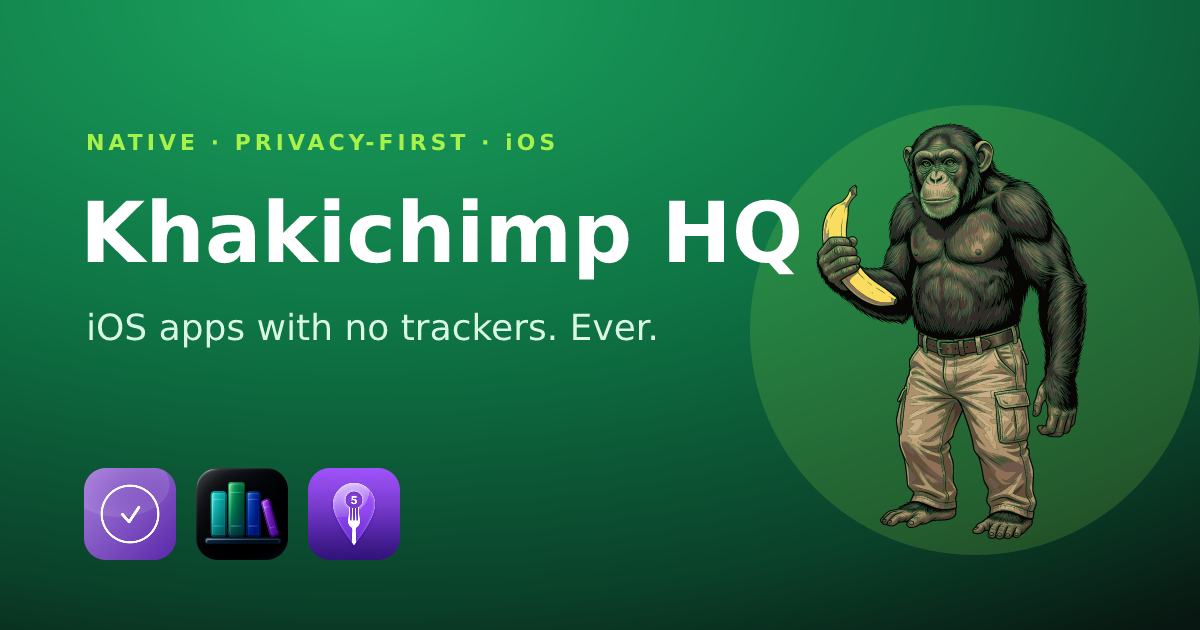
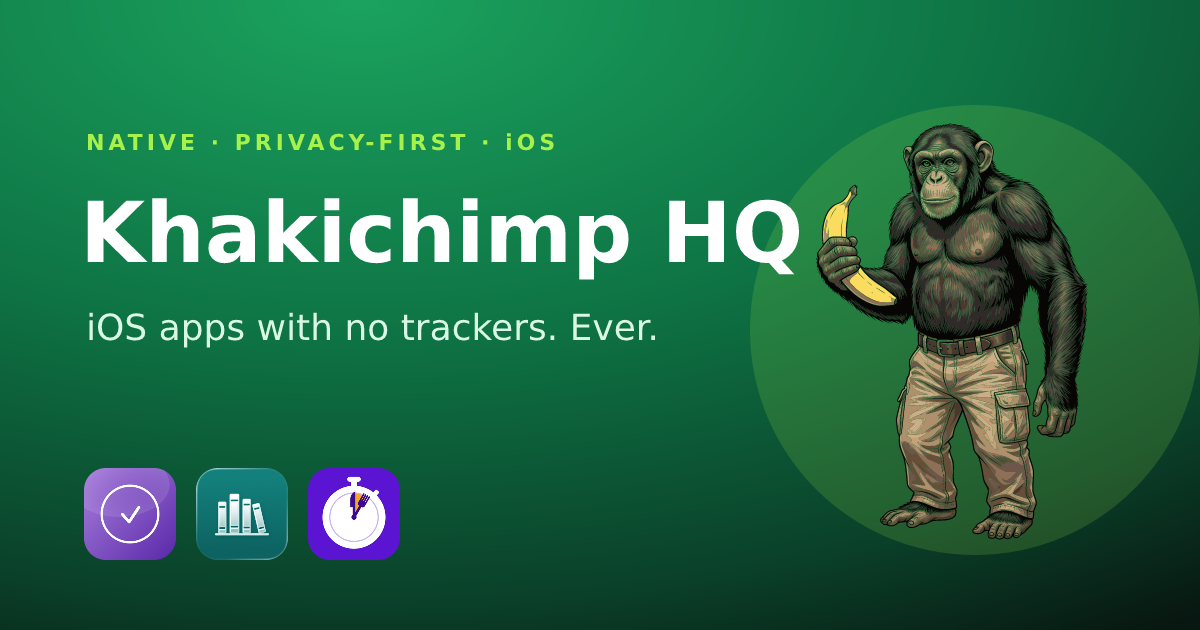
Update Food in Five pages and share images for 3.0.1
Food in Five 3.0.1 is live with the stopwatch icon, the 3.0 redesign and
Food in Five+. The app page, HQ card and career line still described 2.x,
and the Food in Five and HQ share images still showed the old pin icon
(the HQ one also had the old ReadMe icon).

- Regenerate og-food-in-five.png and og-khakichimp.png from the current
  icons; new Food in Five tagline in og-gen.mjs
- Food in Five page: 3.0 features, Food in Five+ pricing, privacy cards
  matched to the privacy policy (search counts, OpenStreetMap lookups)
- HQ: Food in Five card text, StoreKit pill, both apps on version 3
- Career page: mention Food in Five 3.0 alongside ReadMe 3.0

Claude-Session: https://claude.ai/code/session_01NiDWJfx8K7YAdA3Cd5gQmK

Changed region(s): [[0.1542, 0.7238, 0.3392, 0.9048]]

diff --git a/food-in-five/index.html b/food-in-five/index.html
@@ -5,13 +5,13 @@
     <meta name="viewport" content="width=device-width, initial-scale=1.0">
     <meta name="theme-color" content="#8a56ed">
     <title>Food in Five · Support & Info · Khakichimp</title>
-    <meta name="description" content="Food in Five — location-based restaurant discovery powered by Google Places, MapKit, and SwiftData. Find great food fast, all on-device. Support, features, and privacy.">
+    <meta name="description" content="Food in Five shows the restaurants open near you right now, with hours on every card, craving search, favorites, and a wheel to spin. Free, with Food in Five+ for more searches. Support, features, and privacy.">
 <link rel="icon" href="/assets/icons/food-in-five.png" type="image/png">
 <link rel="apple-touch-icon" href="/assets/icons/food-in-five.png">
 <link rel="canonical" href="https://jengels34.github.io/food-in-five/">
 <meta property="og:type" content="website">
 <meta property="og:title" content="Food in Five · Support & Info">
-<meta property="og:description" content="Location-based restaurant discovery for iOS — smart filters and favorites, all on-device.">
+<meta property="og:description" content="See what's open near you right now. Hours on every card, craving search, favorites, and a wheel to spin. No account, no ads, no tracking.">
 <meta property="og:url" content="https://jengels34.github.io/food-in-five/">
 <meta property="og:image" content="https://jengels34.github.io/assets/og-food-in-five.png">
 <meta property="og:image:width" content="1200">
@@ -146,7 +146,7 @@
         <div class="hero-inner">
             <div class="app-icon"><img src="/assets/icons/food-in-five.png" alt="Food in Five app icon" width="88" height="88"></div>
             <h1>Food in Five</h1>
-            <p class="tag">Discover great food near you in seconds — lightning-fast restaurant search, all stored on your device. No account required.</p>
+            <p class="tag">See what's open near you right now: hours on every card, the closest spot one tap away, and a wheel to spin when no one can decide. No account required.</p>
             <div class="cta-row">
                 <a class="btn primary" href="https://apps.apple.com/us/app/food-in-five-find-food-fast/id6751514898"> Download for iOS</a>
                 <a class="btn ghost" href="#privacy">Privacy policy</a>
@@ -161,16 +161,16 @@
         <div class="wrap">
             <span class="eyebrow">About the app</span>
             <h2>Find great food fast</h2>
-            <p class="lead">Discover great food near you in seconds! Stop scrolling through endless restaurant options and eliminate decision fatigue. Food in Five delivers lightning-fast search results within an adjustable radius of 1 to 15 miles, so you can spend less time searching and more time enjoying great food. Your favorites and settings stay on your device, and no account is required.</p>
+            <p class="lead">Hungry and not sure where to eat? Food in Five searches around you the moment you open it and shows the restaurants open right now, on a map with your search area and in cards you can swipe. Set a radius from 1 to 15 miles, cap the price, or search a craving, and the results update as you go. Your favorites and settings stay on your device, and no account is required.</p>
             <div class="chip-grid">
-                <div class="chip"><span class="ic">⚡</span>Lightning-Fast Search</div>
-                <div class="chip"><span class="ic">🎛</span>Smart Filters</div>
-                <div class="chip"><span class="ic">🗺</span>Interactive Map</div>
-                <div class="chip"><span class="ic">⭐</span>Ratings &amp; Hours</div>
-                <div class="chip"><span class="ic">❤</span>Favorites with Notes</div>
+                <div class="chip"><span class="ic">⚡</span>Open Now, Near You</div>
+                <div class="chip"><span class="ic">🕒</span>Hours on Every Card</div>
+                <div class="chip"><span class="ic">↕</span>Best Match, Nearest &amp; More</div>
+                <div class="chip"><span class="ic">🔍</span>Search a Craving</div>
+                <div class="chip"><span class="ic">📍</span>Address, ZIP, or Dropped Pin</div>
+                <div class="chip"><span class="ic">❤</span>Favorites &amp; Collections</div>
                 <div class="chip"><span class="ic">🎲</span>Restaurant Roulette</div>
-                <div class="chip"><span class="ic">↕</span>Sort by Rating or Price</div>
-                <div class="chip"><span class="ic">📍</span>Search by Address or ZIP</div>
+                <div class="chip"><span class="ic">📱</span>Widgets &amp; Quick Actions</div>
             </div>
             <p style="margin-top:24px"><strong style="color:var(--accent-deep)">Perfect for:</strong> Busy professionals needing quick lunch spots, families seeking nearby dinner options, travelers exploring new cities, food lovers discovering local favorites, and anyone tired of "where should we eat?" debates.</p>
         </div>
@@ -182,12 +182,16 @@
             <span class="eyebrow">Key features</span>
             <h2>Everything you need to decide fast</h2>
             <div class="feature-grid">
-                <div class="feature"><h3>Smart Filters</h3><p>Filter by Open Now, price level, and adjustable search radius (1–15 miles).</p></div>
-                <div class="feature"><h3>Favorites with Notes</h3><p>Save your favorite restaurants and add personal notes to remember why you loved them.</p></div>
-                <div class="feature"><h3>Sorting Options</h3><p>Sort results by Top Rated, price, or alphabetically.</p></div>
-                <div class="feature"><h3>Swipeable Card Carousel</h3><p>Browse restaurants by swiping through cards synced to the interactive map.</p></div>
-                <div class="feature"><h3>Private by Design</h3><p>No account and no server storing your data. Favorites and settings stay on your device, and feedback leaves only when you send it.</p></div>
-                <div class="feature"><h3>Dark Mode</h3><p>Choose between System, Light, or Dark appearance.</p></div>
+                <div class="feature"><h3>Filters in One Tap</h3><p>Open Now, a price cap, and a search radius from 1 to 15 miles. Results update as you go, and if everything nearby is closed, the app says so and offers to show closed places.</p></div>
+                <div class="feature"><h3>Hours on Every Card</h3><p>Every card shows the rating, price, distance, and hours, like "Open until 10 PM" or "Opens tomorrow 11 AM", in the restaurant's own time zone.</p></div>
+                <div class="feature"><h3>Sort Your Way</h3><p>Best Match weighs ratings, reviews, and distance. Switch to Nearest, Top Rated, Price, or A to Z from the results header.</p></div>
+                <div class="feature"><h3>Search a Craving</h3><p>Type "tacos", "ramen", or "coffee" to see only the places nearby that serve it.</p></div>
+                <div class="feature"><h3>Details and Directions</h3><p>Open any place for photos, hours, address, and phone. Call, visit the website, share it, or get a route in Apple Maps.</p></div>
+                <div class="feature"><h3>Favorites and Collections</h3><p>Save the spots you love, add a note about what to order, and group them into collections like "Date night".</p></div>
+                <div class="feature"><h3>Widgets and Quick Actions</h3><p>Find food, spin the wheel, search a craving, or open your favorites from the Home Screen.</p></div>
+                <div class="feature"><h3>Built for Every Screen</h3><p>Works on iPhone and iPad, adapts to iPhone Duo open or folded, and supports Dark Mode and large text.</p></div>
+                <div class="feature"><h3>Free, with Food in Five+</h3><p>Every device gets 20 searches a month free. Food in Five+ gives you 10 searches a day for $0.99 a year. Repeating a recent search, filters, and favorites never use a search.</p></div>
+                <div class="feature"><h3>Private by Design</h3><p>No account, no ads, and no server of ours storing your data. Favorites and settings stay on your device, and feedback leaves only when you send it.</p></div>
             </div>
         </div>
     </section>
@@ -218,9 +222,9 @@
             <span class="eyebrow">Your privacy matters</span>
             <h2>On-device by design</h2>
             <div class="feature-grid">
-                <div class="feature"><h3>No Account Required</h3><p>Start using the app immediately — no sign-up needed.</p></div>
-                <div class="feature"><h3>On Your Device</h3><p>Favorites, notes, preferences, and search cache stay on your iPhone. There is no cloud copy and no server storing them.</p></div>
-                <div class="feature"><h3>Location Privacy</h3><p>Your location is sent directly to Google Places API to find nearby restaurants. It is never stored on any server we operate.</p></div>
+                <div class="feature"><h3>No Account Required</h3><p>Start using the app right away, with no sign-up.</p></div>
+                <div class="feature"><h3>On Your Device</h3><p>Favorites, notes, preferences, search counts, and the search cache stay on your iPhone. There is no cloud copy and no server storing them.</p></div>
+                <div class="feature"><h3>Location Privacy</h3><p>Your search location goes directly to Google Places to find restaurants, and an address or ZIP code you type goes to OpenStreetMap to find it on the map. Neither is stored on any server we operate.</p></div>
                 <div class="feature"><h3>No Data Sharing</h3><p>We never sell or share your information with third parties.</p></div>
                 <div class="feature"><h3>Feedback Only When You Send It</h3><p>Settings &gt; Send Feedback sends your report only when you tap Send. Diagnostics are opt-in and never include your location.</p></div>
                 <div class="feature"><h3>No Ads, No Tracking</h3><p>No advertising and no analytics or tracking SDKs. Food in Five never follows you across apps or websites.</p></div>
@@ -233,7 +237,7 @@
     <section class="getapp">
         <div class="wrap">
             <h2>Get Food in Five</h2>
-            <p>Available now on the App Store.</p>
+            <p>Free on the App Store, with Food in Five+ for more searches.</p>
             <a class="btn primary" href="https://apps.apple.com/us/app/food-in-five-find-food-fast/id6751514898"> Download for iOS</a>
         </div>
     </section>

diff --git a/khakichimp/index.html b/khakichimp/index.html
@@ -280,8 +280,8 @@
             <a class="app-card food reveal" href="/food-in-five/" data-tilt>
                 <div class="app-icon"><img src="/assets/icons/food-in-five.png" alt="Food in Five app icon" width="52" height="52"></div>
                 <h3>Food in Five</h3>
-                <p class="desc">Location-based restaurant discovery powered by Google Places, MapKit &amp; SwiftData - smart filters and favorites, all on-device.</p>
-                <div class="pills"><span>SwiftUI</span><span>SwiftData</span><span>MapKit</span><span>Google Places</span></div>
+                <p class="desc">See what's open near you right now - hours on every card, craving search, favorites with collections, and a wheel to spin when no one can decide. Free, with Food in Five+ for more searches.</p>
+                <div class="pills"><span>SwiftUI</span><span>SwiftData</span><span>MapKit</span><span>Google Places</span><span>StoreKit</span></div>
                 <div class="foot"><span class="badge live">On the App Store</span><span class="go">Open →</span></div>
             </a>
         </div>
@@ -303,7 +303,7 @@
         <div class="philosophy craft reveal">
             <div class="big">🛠</div>
             <h3>Built and shipped solo</h3>
-            <p>I design, build, test, and release each app myself, using AI coding tools to move faster. That covers everything from the first idea to App Store review, privacy policies, in-app feedback, and crash reporting. All three are still being updated: ReadMe is on version 3 and Food in Five on version 2.</p>
+            <p>I design, build, test, and release each app myself, using AI coding tools to move faster. That covers everything from the first idea to App Store review, privacy policies, in-app feedback, and crash reporting. All three are still being updated: ReadMe and Food in Five are both on version 3.</p>
             <a class="src" href="https://github.com/jengels34/jengels34.github.io" target="_blank" rel="noopener">This site's source on GitHub ↗</a>
         </div>
     </div>

diff --git a/index.html b/index.html
@@ -349,7 +349,7 @@
                 <div class="when">Aug 2025 - Present</div>
                 <h3>Independent iOS Developer</h3>
                 <div class="org">Self-employed <span class="loc">· Khakichimp</span></div>
-                <p>Native, privacy-first apps built with SwiftUI, SwiftData, and CloudKit. Three are live on the App Store: Tasks - Uniflow, Food in Five, and ReadMe. The latest release, ReadMe 3.0, ships Home and Lock Screen widgets, Control Center check-ins, barcode scanning, and opt-in crash reports routed to GitHub through a Cloudflare Worker.</p>
+                <p>Native, privacy-first apps built with SwiftUI, SwiftData, and CloudKit. Three are live on the App Store: Tasks - Uniflow, Food in Five, and ReadMe. ReadMe 3.0 added Home and Lock Screen widgets, Control Center check-ins, barcode scanning, and opt-in crash reports routed to GitHub through a Cloudflare Worker. Food in Five 3.0 is a full redesign, and 3.0.1 adds a StoreKit 2 subscription.</p>
                 <div class="reflinks">
                     <a href="/khakichimp/">See the apps →</a>
                 </div>
